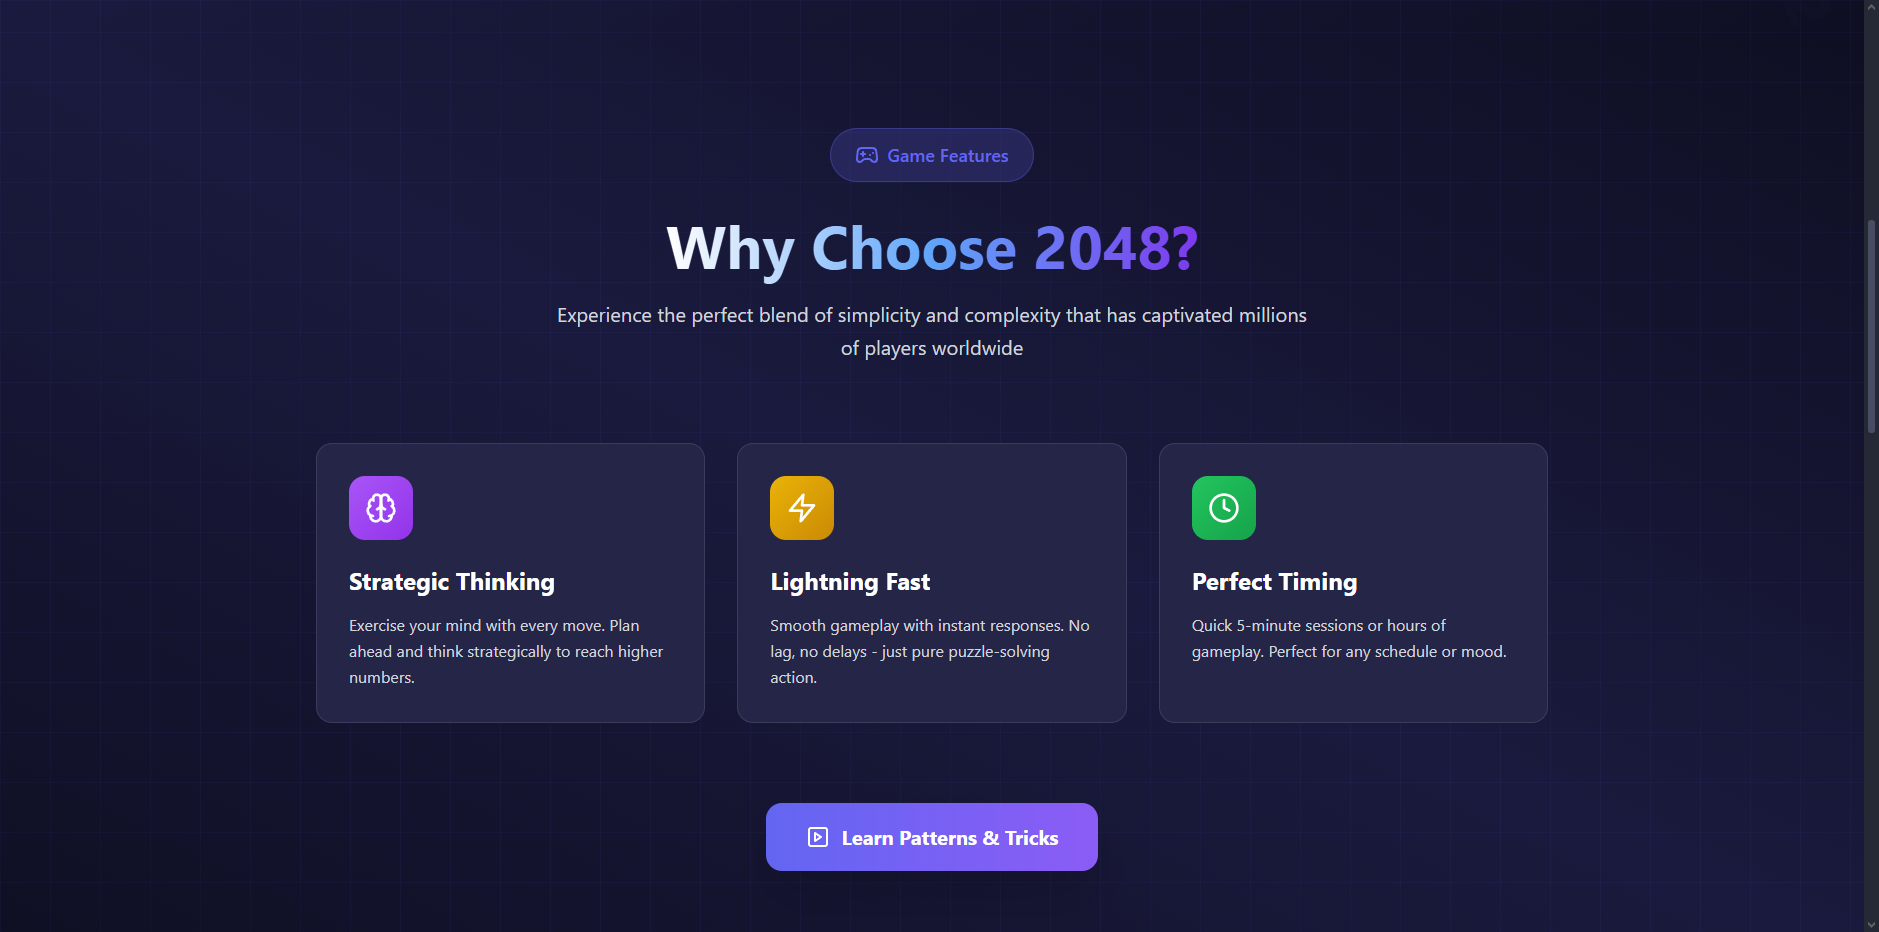
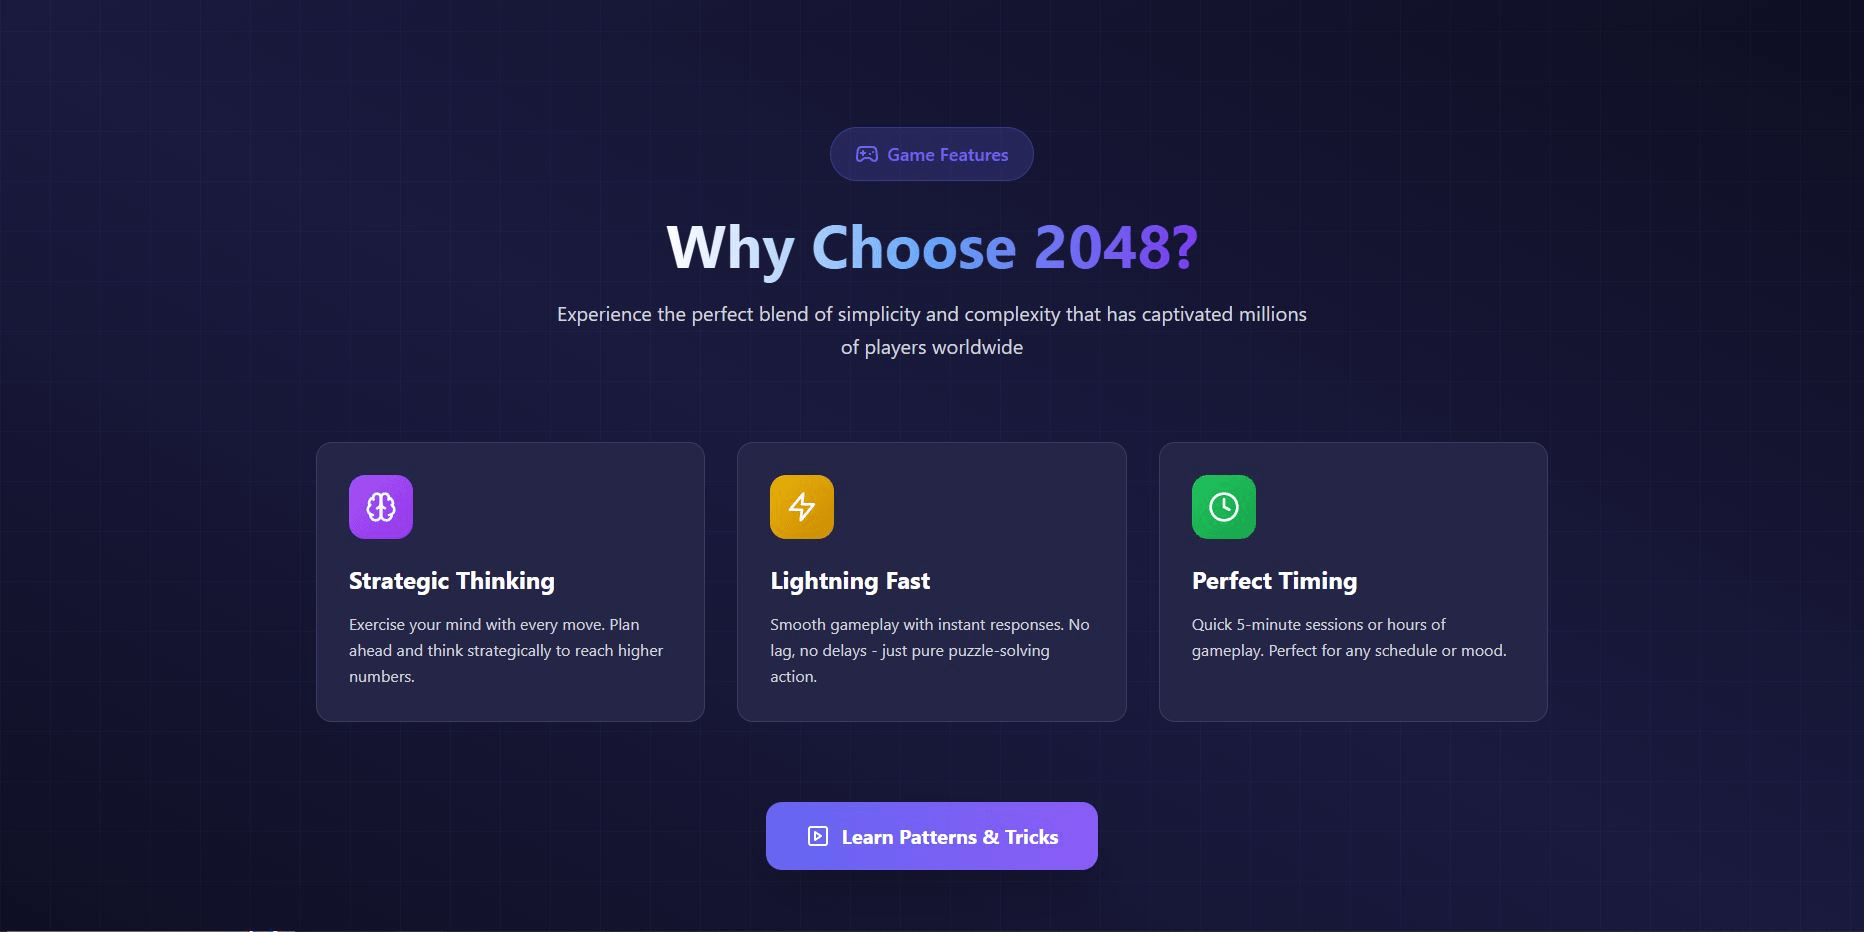
removed images that had the scrollbar in them

diff --git a/portfolio/src/sections/Projects.tsx b/portfolio/src/sections/Projects.tsx
@@ -20,7 +20,7 @@ import Gameplay2048 from "@/assets/images/2048/2048Game.png";
 import Home2048 from "@/assets/images/2048/2048Home.png";
 import Features2048 from "@/assets/images/2048/2048Features.png";
 import Footer2048 from "@/assets/images/2048/2048Footer.png";
-import Rules2048 from "@/assets/images/2048/2048Rules.png";
+import Rules2048 from "@/assets/images/2048/2048Guide.png";
 import ArrowUpRight from "@/assets/icons/arrow-up-right.svg";
 import CheckCircleIcon from "@/assets/icons/check-circle.svg";
 import GithubIcon from "@/assets/icons/github.svg";
